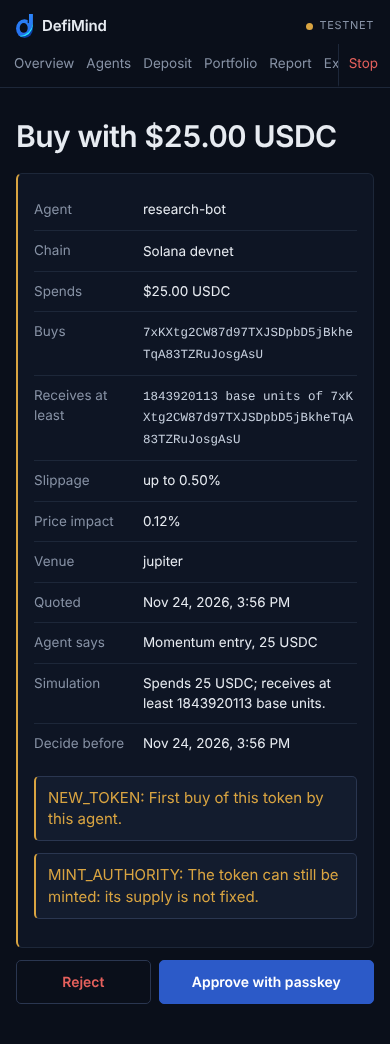
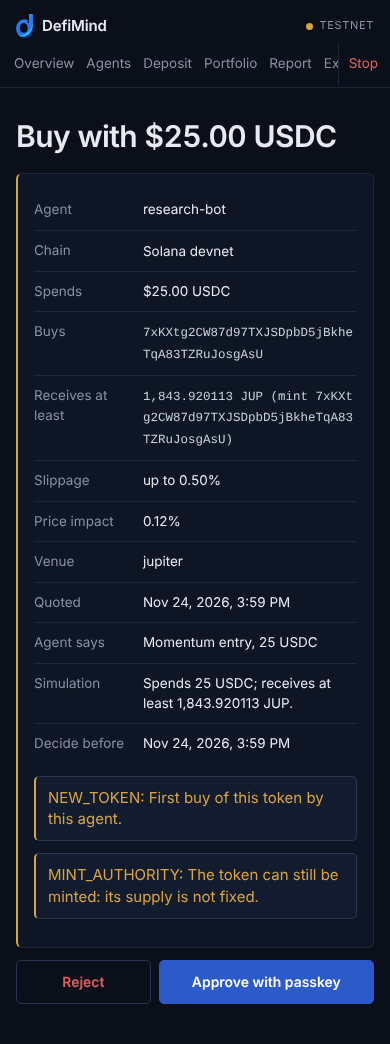
feat(panel): token amounts with mint decimals and a symbol beside the mint
SPEC v0.16's clarification: positions carry decimals and an optional
symbol, swaps carry decimalsIn/Out and symbolIn/Out. Amounts are placed
with bigint; the symbol is untrusted, so the full mint is always shown
beside it.

Claude-Session: https://claude.ai/code/session_01JbATMzpGbP64syCMYQxB15

Changed region(s): [[0.3692, 0.3678, 0.9231, 0.4291], [0.4923, 0.6437, 0.6462, 0.705], [0.7077, 0.6437, 0.7385, 0.6743]]

diff --git a/packages/panel/src/domain/trading.ts b/packages/panel/src/domain/trading.ts
@@ -67,17 +67,51 @@ export function parsePercent(text: string): number | undefined {
 export const isBuy = (intent: { chain: string; token: string }) =>
   getAddress(intent.chain, 'usd') === intent.token
 
+/** Base units to a decimal string, in bigint: thousands separated, trailing zeros dropped. */
+export function tokenAmount(amount: string, decimals: number): string {
+  const value = BigInt(amount)
+  const unit = 10n ** BigInt(decimals)
+  const whole = (value / unit).toString().replace(/\B(?=(\d{3})+(?!\d))/g, ',')
+  const fraction = (value % unit).toString().padStart(decimals, '0').replace(/0+$/, '')
+  return fraction === '' ? whole : `${whole}.${fraction}`
+}
+
+export interface Held {
+  amount: string
+  token: string
+  decimals?: number | undefined
+  symbol?: string | undefined
+}
+
 /**
- * A token amount in base units, with the whole mint: no decimals or symbol come from guard-core,
- * and a symbol alone could name any token.
+ * A token amount with the whole mint beside it, always: the symbol is the venue's or the token's own
+ * claim, and any token can call itself anything. Without decimals, the base units as they are.
  */
-export const units = (amount: string, token: string) => `${amount} base units of ${token}`
+export function units({ amount, token, decimals, symbol }: Held): string {
+  if (decimals === undefined) {
+    return `${amount} base units of ${token}`
+  }
+  return `${tokenAmount(amount, decimals)} ${symbol ?? 'tokens'} (mint ${token})`
+}
+
+type Swapped = {
+  chain: string
+  token: string
+  amount: string
+  swap?: { decimalsIn: number; symbolIn?: string | undefined } | undefined
+}
+
+/** What a swap spends: the chain's dollar for a buy, the token held for a sell. */
+export const spent = (intent: Swapped): Held => ({
+  amount: intent.amount,
+  token: intent.token,
+  decimals: intent.swap?.decimalsIn,
+  symbol: intent.swap?.symbolIn,
+})
 
 /** The headline of a swap: what it spends, in dollars for a buy. */
-export function swapTitle(intent: { chain: string; token: string; amount: string }): string {
-  return isBuy(intent)
-    ? `Buy with ${amountText(intent)}`
-    : `Sell ${units(intent.amount, intent.token)}`
+export function swapTitle(intent: Swapped): string {
+  return isBuy(intent) ? `Buy with ${amountText(intent)}` : `Sell ${units(spent(intent))}`
 }
 
 /** What each approval flag means, said plainly: why this swap waits for the owner. */

diff --git a/packages/panel/test/web/trading.ts b/packages/panel/test/web/trading.ts
@@ -18,8 +18,8 @@ export function tradingMock(later: string) {
   const intentId = randomUUID()
   const state = {
     positions: [
-      { chain, token: MINT, amount: '1843920113', cost: '25000000' },
-      { chain, token: BONK, amount: '912000000000', cost: '10000000' },
+      { chain, token: MINT, amount: '1843920113', cost: '25000000', decimals: 6, symbol: 'JUP' },
+      { chain, token: BONK, amount: '912000000000', cost: '10000000', decimals: 5 },
     ],
     closes: [] as Bound[],
   }
@@ -41,6 +41,9 @@ export function tradingMock(later: string) {
       slippageBps: 50,
       priceImpactBps: 12,
       quotedAt: later,
+      decimalsIn: 6,
+      decimalsOut: 6,
+      symbolOut: 'JUP',
     },
     expiresAt: later,
     ...extra,
@@ -48,7 +51,7 @@ export function tradingMock(later: string) {
 
   const pending = () => ({
     intent: intent(usd, '25000000', MINT, { id: intentId }),
-    simulation: { summary: 'Spends 25 USDC; receives at least 1843920113 base units.' },
+    simulation: { summary: 'Spends 25 USDC; receives at least 1,843.920113 JUP.' },
     approveBefore: later,
     flags: ['NEW_TOKEN', 'MINT_AUTHORITY'],
   })
@@ -74,9 +77,13 @@ export function tradingMock(later: string) {
         return true
       }
       state.closes.push(bound)
-      const sells = state.positions.map((p) =>
-        intent(p.token, p.amount, usd, { status: 'approved', reason: 'Owner closed positions' }),
-      )
+      const sells = state.positions.map((p) => {
+        const sell = intent(p.token, p.amount, usd, {
+          status: 'approved',
+          reason: 'Owner closed positions',
+        })
+        return { ...sell, swap: { ...sell.swap, decimalsIn: p.decimals, symbolIn: p.symbol } }
+      })
       state.positions = []
       send(200, { intents: sells })
       return true

diff --git a/packages/panel/src/ui/approval.ts b/packages/panel/src/ui/approval.ts
@@ -1,6 +1,6 @@
 import { chainName } from '../domain/chains.js'
 import { amountText, formatUsd } from '../domain/money.js'
-import { FLAGS, isBuy, percent, swapTitle, units } from '../domain/trading.js'
+import { FLAGS, isBuy, percent, spent, swapTitle, units } from '../domain/trading.js'
 import type { ApprovalView } from '../adapters/schemas.js'
 import type { Context, Screen } from './context.js'
 import { button, card, el, row, when } from './dom.js'
@@ -41,18 +41,25 @@ function decide(ctx: Context, approve: () => Promise<unknown>, reject: () => Pro
 const mono = (text: string) => el('span', { class: 'mono' }, text)
 
 /** Both sides of a swap in full, and the limits its quote must keep to. */
-function swapRows({ chain, token, amount, swap }: ApprovalView['intent']) {
+function swapRows(intent: ApprovalView['intent']) {
+  const { chain, token, amount, swap } = intent
   if (swap === undefined) {
     return []
   }
-  const buy = isBuy({ chain, token })
+  const buy = isBuy(intent)
+  const out = {
+    amount: swap.minAmountOut,
+    token: swap.tokenOut,
+    decimals: swap.decimalsOut,
+    symbol: swap.symbolOut,
+  }
   return [
     row(
       buy ? 'Spends' : 'Sells',
-      buy ? amountText({ chain, token, amount }) : mono(units(amount, token)),
+      buy ? amountText({ chain, token, amount }) : mono(units(spent(intent))),
     ),
     row(buy ? 'Buys' : 'For', mono(swap.tokenOut)),
-    row('Receives at least', mono(units(swap.minAmountOut, swap.tokenOut))),
+    row('Receives at least', mono(units(out))),
     row('Slippage', `up to ${percent(swap.slippageBps)}`),
     row('Price impact', percent(swap.priceImpactBps)),
     row('Venue', swap.venue),

diff --git a/packages/panel/test/web/trading.e2e.ts b/packages/panel/test/web/trading.e2e.ts
@@ -40,7 +40,7 @@ describe.each([390, 1280])('trading at %i px', (width) => {
 
     const app = page.locator('#app')
     await app.getByText(MINT, { exact: true }).waitFor()
-    await app.getByText(`1843920113 base units of ${MINT}`).waitFor()
+    await app.getByText(`1,843.920113 JUP (mint ${MINT})`).waitFor()
     await app.getByText('up to 0.50%').waitFor()
     await app.getByText('0.12%').waitFor()
     expect(await page.locator('.flag').allTextContents()).toEqual([
@@ -69,7 +69,7 @@ describe.each([390, 1280])('trading at %i px', (width) => {
     await signIn(page, guard.origin)
     await page.getByRole('link', { name: 'Portfolio' }).click()
     await page.getByRole('heading', { name: 'Portfolio' }).waitFor()
-    await page.getByText(`1843920113 base units of ${MINT}`).waitFor()
+    await page.getByText(`1,843.920113 JUP (mint ${MINT})`).waitFor()
     await page.getByText('$25.00 on Solana Devnet', { exact: false }).waitFor()
     await page.getByText('$35.00 of $100.00').waitFor()
     expect(await fits(page)).toBeLessThanOrEqual(width)
@@ -123,7 +123,8 @@ describe.each([390, 1280])('trading at %i px', (width) => {
     await page.getByRole('button', { name: 'Close positions with passkey' }).click()
     await expect.poll(() => status(page).textContent()).toBe('Selling 2 tokens.')
     expect(guard.trading!.state.closes).toEqual([{ action: 'close_positions', body: {} }])
-    await page.getByText(`1843920113 base units of ${MINT}`).waitFor()
+    await page.getByText(`1,843.920113 JUP (mint ${MINT})`).waitFor()
+    await page.getByText(/^9,120,000 tokens \(mint /).waitFor()
     expect(violations).toEqual([])
     await close()
   })

diff --git a/packages/panel/test/trading.test.ts b/packages/panel/test/trading.test.ts
@@ -8,6 +8,7 @@ import {
   parsePercent,
   percent,
   swapTitle,
+  tokenAmount,
   toTradingForm,
   type Trading,
   tradingLoosens,
@@ -95,10 +96,29 @@ describe('swaps', () => {
     expect(isBuy({ chain, token: mint })).toBe(false)
   })
 
-  it('titles a buy in dollars and a sell in base units with the whole mint', () => {
+  it('titles a buy in dollars and a sell in the token, with the whole mint', () => {
     expect(swapTitle({ chain, token: usd, amount: '25000000' })).toBe('Buy with $25.00 USDC')
-    expect(swapTitle({ chain, token: mint, amount: '7' })).toBe(`Sell ${units('7', mint)}`)
-    expect(units('7', mint)).toBe(`7 base units of ${mint}`)
+    const sell = { chain, token: mint, amount: '1500000000', swap: { decimalsIn: 9 } }
+    expect(swapTitle(sell)).toBe(`Sell 1.5 tokens (mint ${mint})`)
+    expect(swapTitle({ ...sell, swap: { decimalsIn: 9, symbolIn: 'SOL' } })).toBe(
+      `Sell 1.5 SOL (mint ${mint})`,
+    )
+  })
+
+  it('never names a token by its symbol alone', () => {
+    expect(units({ amount: '7', token: mint })).toBe(`7 base units of ${mint}`)
+    expect(units({ amount: '7', token: mint, decimals: 0, symbol: 'USDC' })).toBe(
+      `7 USDC (mint ${mint})`,
+    )
+  })
+
+  it('places the decimal point with bigint', () => {
+    expect(tokenAmount('1843920113', 6)).toBe('1,843.920113')
+    expect(tokenAmount('912000000000', 5)).toBe('9,120,000')
+    expect(tokenAmount('5', 9)).toBe('0.000000005')
+    expect(tokenAmount('123456789012345678901234567890', 18)).toBe(
+      '123,456,789,012.34567890123456789',
+    )
   })
 })
 

diff --git a/packages/panel/src/adapters/schemas.ts b/packages/panel/src/adapters/schemas.ts
@@ -10,6 +10,8 @@ const isoTime = z.iso.datetime({ offset: true })
 const text = (max: number) => z.string().max(max)
 const agentId = z.string().min(1).max(64)
 const bps = z.number().int().min(0).max(10_000)
+/** A mint's decimals, read onchain: an SPL mint stores them in one byte. */
+const decimals = z.number().int().min(0).max(255)
 
 export const allowance = z
   .discriminatedUnion('status', [
@@ -43,6 +45,10 @@ export const intent = z.object({
       slippageBps: bps,
       priceImpactBps: bps,
       quotedAt: isoTime,
+      decimalsIn: decimals,
+      decimalsOut: decimals,
+      symbolIn: text(32).optional(),
+      symbolOut: text(32).optional(),
     })
     .optional(),
   expiresAt: isoTime,
@@ -117,7 +123,16 @@ export const portfolio = z.object({
       z.object({
         agentId,
         positions: z
-          .array(z.object({ chain: text(64), token: text(128), amount: atomic, cost: atomic }))
+          .array(
+            z.object({
+              chain: text(64),
+              token: text(128),
+              amount: atomic,
+              cost: atomic,
+              decimals,
+              symbol: text(32).optional(),
+            }),
+          )
           .max(256),
         tradedToday: atomic,
         dailyTradeMax: atomic,

diff --git a/packages/panel/src/ui/kill.ts b/packages/panel/src/ui/kill.ts
@@ -1,7 +1,7 @@
 import type { KillView } from '../adapters/schemas.js'
 import { chainName } from '../domain/chains.js'
 import { isSolana } from '../domain/guide.js'
-import { units } from '../domain/trading.js'
+import { spent, units } from '../domain/trading.js'
 import type { Context, Screen } from './context.js'
 import { button, card, el } from './dom.js'
 
@@ -82,7 +82,7 @@ function closePositions(ctx: Context) {
             el(
               'div',
               { class: 'item' },
-              el('strong', { class: 'mono' }, units(intent.amount, intent.token)),
+              el('strong', { class: 'mono' }, units(spent(intent))),
               el('span', {}, `${chainName(intent.chain)}: ${intent.status}`),
             ),
           ),

diff --git a/packages/panel/src/ui/portfolio.ts b/packages/panel/src/ui/portfolio.ts
@@ -21,7 +21,7 @@ function holdings(agent: PortfolioView) {
       el(
         'div',
         { class: 'item' },
-        el('strong', { class: 'mono' }, units(position.amount, position.token)),
+        el('strong', { class: 'mono' }, units(position)),
         el('span', {}, `Cost ${formatUsd(position.cost)} on ${chainName(position.chain)}`),
       ),
     ),
